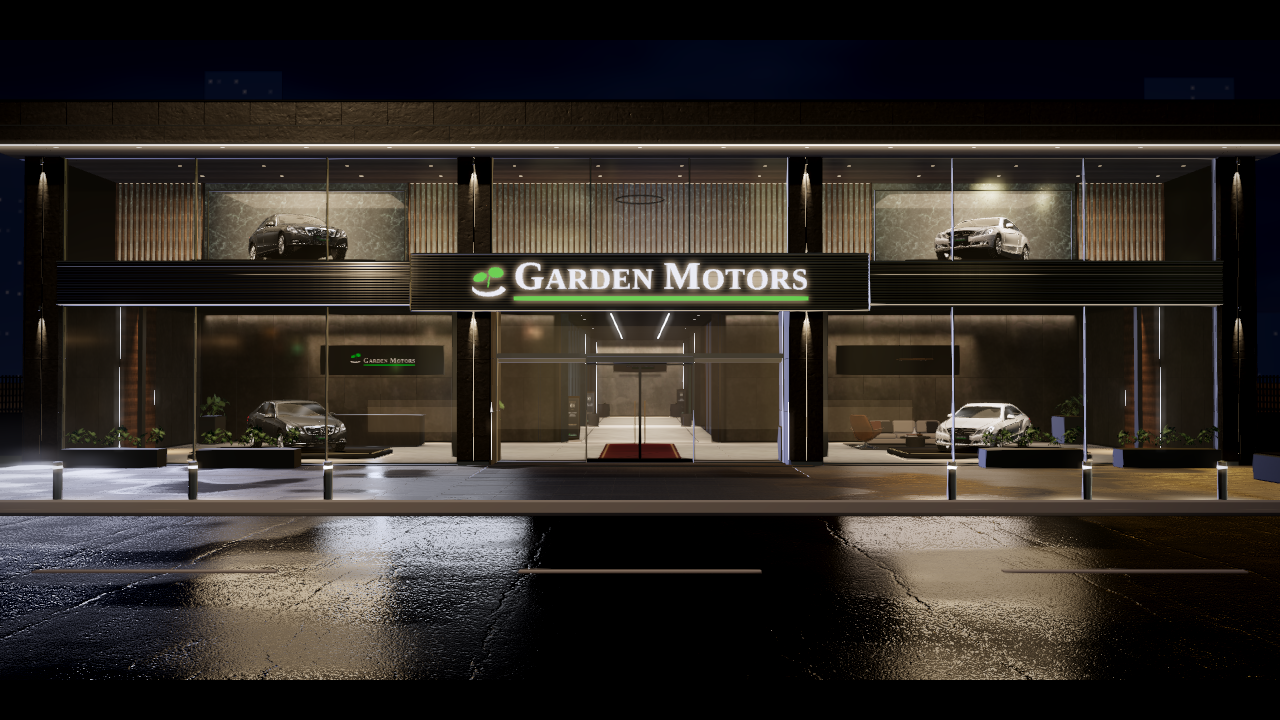
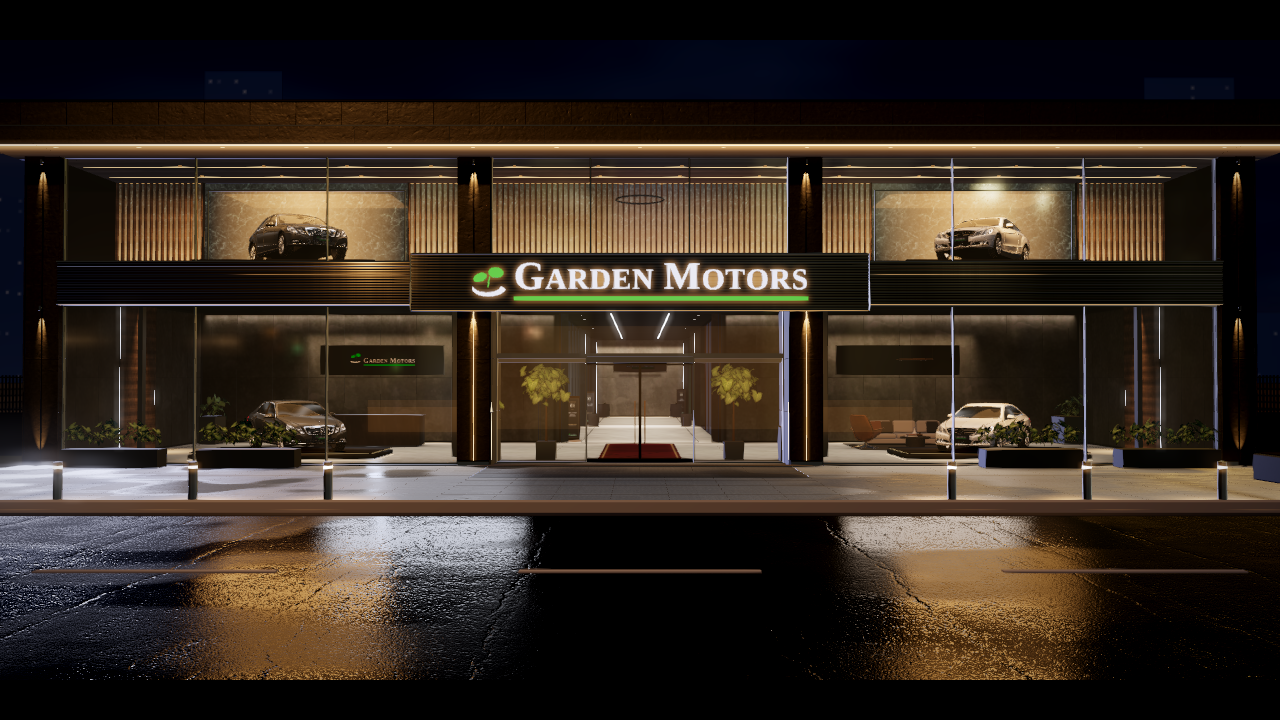
Garden Motors: vivid warm lighting to match the reference one-to-one
- Light: 3000K with no white-balance correction (vivid warm orange).
- Entrance columns: bright vertical LED on the ground floor only plus a
  narrow warm face glow; end columns get a base uplight.
- Upper floor: brighter marble niches and slat wash, two linear ceiling LEDs.
- Soffit LED and spill brighter; bollards brighter with larger light pools.
- Lobby trees on both sides of the entrance; denser planter planting.
- Pavement: lighter grey 120x60 cm wet tiles (worldUV tiles accept [x, z]).
- Wet road: long broken vertical streaks (33-tap exponential kernel,
  surface ripple, highlight boost).

Claude-Session: https://claude.ai/code/session_01M8TgaEoQWpuWF9YvHdo5A9

diff --git a/site/garden-motors/index.html b/site/garden-motors/index.html
@@ -1678,6 +1678,9 @@ function buildUpperGallery(f, g) {
     for (const yy of [y0 + .008, y1 - .008]) { const s = new THREE.Mesh(new THREE.BoxGeometry(w - .04, .01, .015), led); s.position.set(cx, yy, zB + .055); G.add(s); }
     const wp = new THREE.Mesh(new THREE.PlaneGeometry(w, H), wash); wp.position.set(cx, y0 + H / 2, zB + .045); G.add(wp);
   }
+  // referans: üst kat ahşap tavanında cepheye paralel iki ince çizgi LED
+  const cl = new THREE.MeshBasicMaterial({ name: 'GM_UpperCeilLED', color: L.clone().multiplyScalar(U.ceilLED) });
+  for (const z of [-1.05, -2.55]) { const s = new THREE.Mesh(new THREE.BoxGeometry(X1 - X0 - 1.2, .012, .03), cl); s.position.set(0, y1 - .01, z); s.name = 'GM_UpperCeilLED'; G.add(s); }
   const fin = new THREE.InstancedMesh(facUV(new RoundedBoxGeometry(U.finW, H - .03, U.finD, 2, .006), U.finW, H - .03, 1.6), wood, fins.length);   // ahşap damar gerçek ölçekte
   fins.forEach((p, i) => fin.setMatrixAt(i, m4.compose(p, q, new THREE.Vector3(1, 1, 1))));
   fin.instanceMatrix.needsUpdate = true; fin.name = 'GM_UpperFins'; fin.receiveShadow = true; G.add(fin);
@@ -1773,6 +1776,9 @@ function colMats() {
   const led = new THREE.MeshBasicMaterial({ name: 'GM_ColumnLED', color: M.lightColor.clone().multiplyScalar(C.led) });
   const core = new THREE.MeshStandardMaterial({ name: 'GM_LamelCore', color: C.lamel.core, roughness: .85, metalness: .1, envMapIntensity: .05 });
   const ring = new THREE.MeshBasicMaterial({ name: 'GM_UplightRing', color: M.lightColor.clone().multiplyScalar(1.5) });
+  const face = new THREE.MeshBasicMaterial({ name: 'GM_ColumnFaceGlow', map: gradTex('x', [[0, 0], [.38, .05], [.47, .5], [.5, 1], [.53, .5], [.62, .05], [1, 0]]),
+    alphaMap: gradTex('y', [[0, .35], [.08, 1], [.85, .8], [1, 0]]), color: M.lightColor.clone().multiplyScalar(C.faceGlow),
+    transparent: true, blending: THREE.AdditiveBlending, depthWrite: false });
   // girinti yan yüzeyi: LED'e yakın kenar parlak, öne doğru sönen ışık (ek ışık kaynağı yerine katkılı gradyan)
   const cv = document.createElement('canvas'); cv.width = 64; cv.height = 4; const g = cv.getContext('2d'), gr = g.createLinearGradient(0, 0, 64, 0);
   gr.addColorStop(0, 'rgba(255,255,255,0)'); gr.addColorStop(.55, 'rgba(255,255,255,.18)'); gr.addColorStop(1, 'rgba(255,255,255,1)');
@@ -1781,9 +1787,9 @@ function colMats() {
   const glow = new THREE.MeshBasicMaterial({ name: 'GM_GrooveGlow', map: gt, color: M.lightColor.clone().multiplyScalar(C.grooveGlow), transparent: true,
     blending: THREE.AdditiveBlending, depthWrite: false, side: THREE.DoubleSide, toneMapped: true });
   if (EXT_ENV) { body.envMap = EXT_ENV; }
-  return (COL.mats = { body, gap, led, core, ring, glow, metal: M.metal });
+  return (COL.mats = { body, gap, led, core, ring, glow, face, metal: M.metal });
 }
-function createColumn(width, height, depth, variant = TH.columns.variant) {
+function createColumn(width, height, depth, variant = TH.columns.variant, { strip = true, base = false } = {}) {
   const C = TH.columns, K = colMats(), g = new THREE.Group(); g.name = `GM_Column_${variant}`;
   const w = width, h = height, d = depth, tm = TH.palette.structure.textureMeters;
   const add = (geo, mat, x, y, z, { cast = true, recv = true, name } = {}) => { const m = new THREE.Mesh(geo, mat); m.position.set(x, y, z); m.castShadow = cast; m.receiveShadow = recv; if (name) m.name = name; g.add(m); return m; };
@@ -1812,12 +1818,18 @@ function createColumn(width, height, depth, variant = TH.columns.variant) {
       const geo = wallVar(new RoundedBoxGeometry(hw, ph, d, 3, C.radius));   // dünya koordinatlı doku + plaka başına ofset / döndürme / ton
       add(geo, wallMat(), sd * (gw / 2 + hw / 2), y0 + ph / 2 + k * (ph + C.joint), -d / 2, { name: 'GM_ColumnPlate' });
     }
-    add(new THREE.BoxGeometry(.012, bh, .006), K.led, 0, y0 + bh / 2, -gd + .004, { cast: false, recv: false, name: 'GM_ColumnLED' });
-    for (const sd of [-1, 1]) {
-      const pg = new THREE.PlaneGeometry(gd, bh);
-      if (sd > 0) { const uv = pg.attributes.uv; for (let k = 0; k < uv.count; k++) uv.setX(k, 1 - uv.getX(k)); }
-      const pl = add(pg, K.glow, sd * (gw / 2 - .0006), y0 + bh / 2, -gd / 2, { cast: false, recv: false, name: 'GM_GrooveGlow' });
-      pl.rotation.y = sd * Math.PI / 2;   // u: ön kenar → LED tarafı (iki yanda da LED'e doğru parlar)
+    // referans: parlak dikey LED yalnız zemin katta (bant altına kadar) ve yalnız giriş kolonlarında; üstü koyu girinti
+    if (strip) {
+      const lh = Math.min(bh, C.ledTop - y0);
+      add(new THREE.BoxGeometry(.012, lh, .006), K.led, 0, y0 + lh / 2, -gd + .004, { cast: false, recv: false, name: 'GM_ColumnLED' });
+      for (const sd of [-1, 1]) {
+        const pg = new THREE.PlaneGeometry(gd, lh);
+        if (sd > 0) { const uv = pg.attributes.uv; for (let k = 0; k < uv.count; k++) uv.setX(k, 1 - uv.getX(k)); }
+        const pl = add(pg, K.glow, sd * (gw / 2 - .0006), y0 + lh / 2, -gd / 2, { cast: false, recv: false, name: 'GM_GrooveGlow' });
+        pl.rotation.y = sd * Math.PI / 2;   // u: ön kenar → LED tarafı (iki yanda da LED'e doğru parlar)
+      }
+      // ön yüze yayılan sıcak ışıma: LED hattında parlak, kolon kenarlarına ve üst/alt uçlara doğru söner
+      add(new THREE.PlaneGeometry(w, lh), K.face, 0, y0 + lh / 2, .003, { cast: false, recv: false, name: 'GM_ColumnFaceGlow' });
     }
   }
   // referans: kolon yüzüne monte küçük silindir armatür + aşağı bakan dar ışın (gölgesiz). Armatürün hemen altında parlak, aşağı doğru söner.
@@ -1835,6 +1847,17 @@ function createColumn(width, height, depth, variant = TH.columns.variant) {
       g.add(sp, sp.target); COL.spots.push(sp);
     }
   }
+  // uç kolonlar (referans): zemine gömülü halka + yukarı bakan dar ışık; altta parlak, yukarı söner
+  if (base) {
+    const off = C.uplightOffset;
+    add(new THREE.TorusGeometry(.065, .012, 8, 32), K.metal, 0, .014, off, { cast: false, name: 'GM_UplightRing' }).rotation.x = -Math.PI / 2;
+    add(new THREE.CircleGeometry(.05, 32), K.ring, 0, .016, off, { cast: false, recv: false, name: 'GM_UplightLens' }).rotation.x = -Math.PI / 2;
+    if (!isMobile) {
+      const sp = new THREE.SpotLight(facadeMats().lightColor, C.baseUplight, h + 1.5, C.uplightAngle, C.uplightPenumbra, 2);
+      sp.name = 'GM_ColumnUplight'; sp.castShadow = false; sp.position.set(0, .05, off); sp.target.position.set(0, h * .6, off - h * .6 * Math.tan(C.uplightAngle));
+      sp.userData.base = true; g.add(sp, sp.target); COL.spots.push(sp);
+    }
+  }
   return g;
 }
 // kolonları (yeniden) kur: lil-gui'den varyant / girinti değişince çağrılır
@@ -1842,14 +1865,16 @@ function buildColumns(variant = TH.columns.variant) {
   if (COL.group) { COL.group.traverse((o) => { if (o.isMesh) o.geometry.dispose(); }); COL.group.removeFromParent(); }
   COL.spots = [];
   const g = COL.group = new THREE.Group(); g.name = 'Dış kolonlar'; scene.add(g);
-  for (const [x, w] of COL_SPECS) { const c = createColumn(w, FD.roofBottom, FAC_COL_F - FD.glass, variant); c.position.set(x, 0, FAC_COL_F); g.add(c); }
+  for (const [x, w] of COL_SPECS) {   // giriş kolonları: dikey LED; uç kolonlar: zeminden yukarı ışık (referans)
+    const end = Math.abs(x) > 10, c = createColumn(w, FD.roofBottom, FAC_COL_F - FD.glass, variant, { strip: !end, base: end });
+    c.position.set(x, 0, FAC_COL_F); g.add(c); }
   renderer.shadowMap.needsUpdate = true;
   return g;
 }
 function updateColumnLights() {
   const C = TH.columns, K = colMats(), L = facadeMats().lightColor;
-  K.led.color.copy(L).multiplyScalar(C.led); K.glow.color.copy(L).multiplyScalar(C.grooveGlow);
-  for (const sp of COL.spots) { sp.intensity = C.uplight; sp.color.copy(L); }
+  K.led.color.copy(L).multiplyScalar(C.led); K.glow.color.copy(L).multiplyScalar(C.grooveGlow); K.face.color.copy(L).multiplyScalar(C.faceGlow);
+  for (const sp of COL.spots) { sp.intensity = sp.userData.base ? C.baseUplight : C.uplight; sp.color.copy(L); }
 }
 // siyah yatay alüminyum lamel kutu: koyu arka yüz + öne eğik lameller (üst yüzleri göğü / saçak ışığını yakalar, referanstaki ince
 // parlak çizgiler) + metal üst başlık ve alt kapak; alt kapağın ön kenarında aşağı bakan ince LED. z0: arka, zF: lamellerin önü.
@@ -1970,12 +1995,13 @@ function applyFacadeTheme(f) {
   if (DECOR.potted_plant_02) {
     f.traverse((o) => {
       if (!/^MTG_FacPlanterSoil/.test(o.name)) return;
-      const bb = new THREE.Box3().setFromObject(o), L = bb.max.x - bb.min.x, n = Math.max(3, Math.round(L / .4));   // referans: gür, sık dikim
+      const bb = new THREE.Box3().setFromObject(o), L = bb.max.x - bb.min.x, n = Math.max(4, Math.round(L / .3));   // referans: gür, sık dikim
       for (let i = 0; i < n; i++) {
         const p = DECOR.potted_plant_02.clone(true); p.traverse((m) => { if (m.isMesh && /_pot(\.|_|\d|$)/i.test(`${m.name}|${m.material?.name || ''}`)) m.visible = false; });
-        const pb = new THREE.Box3().setFromObject(p), k = (.58 + .14 * Math.sin(i * 2.7)) / Math.max(.01, pb.max.y - pb.min.y);
+        const pb = new THREE.Box3().setFromObject(p), k = (.72 + .18 * Math.sin(i * 2.7)) / Math.max(.01, pb.max.y - pb.min.y);
         p.scale.setScalar(k); p.rotation.y = i * 2.1;
-        p.position.set(bb.min.x + L * (i + .5) / n, bb.max.y - (pb.min.y * k) - .06, (bb.min.z + bb.max.z) / 2); p.name = 'GM_PlanterPlant';
+        const dz = ((i % 3) - 1) * (bb.max.z - bb.min.z) * .22;   // iki-üç sıra: saksı dolu görünür
+        p.position.set(bb.min.x + L * (i + .5) / n, bb.max.y - (pb.min.y * k) - .06, (bb.min.z + bb.max.z) / 2 + dz); p.name = 'GM_PlanterPlant';
         f.add(p); f.worldToLocal(p.position);
       }
     });
@@ -1994,7 +2020,28 @@ function finalizeFacadeTheme() {
   recolorFacadeLights();
   restylePlanters();
   bollardLights();
+  lobbyTrees();
   buildThemeSky();
+}
+// giriş lobisi (referans): kapının iki yanında, cam arkasında koyu kare saksıda yapraklı küçük ağaç.
+// Taç: potted_plant_02 yapraklarının yedi kümesi (gerçek yaprak dokusu), ince gövde.
+function lobbyTrees() {
+  if (!DECOR.potted_plant_02) return;
+  const M = facadeMats(), potM = M.variant('structure', { matte: true }), trunkM = std('#3b3027', .85, 0, .1), soil = std('#211f1a', .96, 0, 0);
+  const leafCache = new Map(), darkLeaf = (m) => { if (!leafCache.has(m)) { const c = m.clone(); c.color.multiply(new THREE.Color(.3, .5, .3)); leafCache.set(m, c); } return leafCache.get(m); };   // sıcak ışıkta sararmasın: koyu yeşil
+  for (const sd of [-1, 1]) {
+    const g = new THREE.Group(); g.name = 'GM_LobbyTree'; g.position.set(sd * 2.75, 0, -1.75); scene.add(g);
+    const pot = new THREE.Mesh(new RoundedBoxGeometry(.56, .55, .56, 3, .02), potM); pot.position.y = .275; pot.castShadow = pot.receiveShadow = true; g.add(pot);
+    const top = new THREE.Mesh(new THREE.PlaneGeometry(.5, .5), soil); top.rotation.x = -Math.PI / 2; top.position.y = .53; g.add(top);
+    const tr = new THREE.Mesh(new THREE.CylinderGeometry(.025, .04, 1.25, 10), trunkM); tr.position.y = .53 + .62; tr.castShadow = true; g.add(tr);
+    for (let k = 0; k < 12; k++) {
+      const p = DECOR.potted_plant_02.clone(true);
+      p.traverse((m) => { if (!m.isMesh) return; if (/_pot(\.|_|\d|$)/i.test(`${m.name}|${m.material?.name || ''}`)) m.visible = false; else m.material = darkLeaf(m.material); });
+      const a = k * 2.399963, r = k ? (k < 6 ? .22 : .36) : 0, hgt = 1.45 + (k % 3) * .16 + (k ? 0 : .3);
+      p.scale.setScalar(1.25 + (k % 2) * .25); p.rotation.set((k % 2 ? .4 : -.3), a * 1.7, (k % 3 - 1) * .35);
+      p.position.set(Math.cos(a) * r, hgt, Math.sin(a) * r); g.add(p);
+    }
+  }
 }
 // babalar (referans): tepede parlak sıcak ışık halkası + zeminde yumuşak ışık havuzu (katkılı, ek ışık kaynağı yok).
 // Islak zeminde halka ve havuz Reflector görüntüsünden dikey süzülme olarak da yansır.

diff --git a/site/garden-motors/src/theme/facadeTheme.js b/site/garden-motors/src/theme/facadeTheme.js
@@ -15,8 +15,8 @@ export const FACADE_THEME = {
     stone: { texture: 'stone', usage: 'yalnız yaya zemini (kaldırım, giriş eşiği)' },
     brand: { green: '#3ccf3c', white: '#f2efe8' },
   },
-  lightTemp: 3500,   // K — bütün spot, LED ve vitrin ışıkları (cephe ışıklarının hepsi kelvinToColor'dan)
-  whiteBalance: 4700,   // K — kamera beyaz dengesi: 3500 K ışık #ffe1b6 görünür, gri taş sıcak ışık altında gri kalır (6500 = dengesiz, #ffcc8c)
+  lightTemp: 3000,   // K — bütün spot, LED ve vitrin ışıkları (cephe ışıklarının hepsi kelvinToColor'dan)
+  whiteBalance: 6500,   // K — kamera beyaz dengesi. Referans: canlı sıcak turuncu ışık → düzeltme yok (3000 K ≈ #ffbd73). 4700 = nötr, taş gri kalır
   sign: {
     width: 12.4, height: 1.56, boxDepth: .22,   // tabela kutusu: bant önüne 22 cm çıkar, bantdan 18 cm yüksek, önü aynı lamel
     capRatio: .45,          // büyük harf yüksekliği / panel yüksekliği
@@ -51,8 +51,11 @@ export const FACADE_THEME = {
     radius: .008,          // plaka köşe pahı
     roughness: .35, clearcoat: .4, clearcoatRoughness: .3,   // bantlardan bir tık rafine
     grooveW: .04, grooveD: .03,      // orta girinti
-    led: 1.1,              // girinti dibindeki 3000 K şerit (tabeladan sönük kalır)
-    grooveGlow: .35,       // girinti yan yüzeylerine düşen LED ışığı
+    led: 3.6,              // girinti dibindeki şerit (referans: zemin kat kolonlarında parlak dikey LED)
+    grooveGlow: 1.2,       // girinti yan yüzeylerine düşen LED ışığı
+    ledTop: 4.30,          // LED yalnız zemin katta (bant altına kadar), giriş kolonlarında
+    faceGlow: .22,         // LED'in kolon ön yüzüne yaydığı sıcak ışıma (ortada parlak, kenarlara söner)
+    baseUplight: 14,       // uç kolonlar: zeminden yukarı ışık (referanstaki gibi altta parlak)
     plinthH: .12, plinthInset: .02, plinthGap: .03,   // metal kaide + koyu gölge boşluğu
     topGap: .03,           // kolon üstü ile saçak arası gölge boşluğu
     uplight: 36, uplightAngle: .26, uplightPenumbra: .8, uplightOffset: .22,   // kolon ışığı şiddeti / açısı (gölgesiz)
@@ -70,8 +73,9 @@ export const FACADE_THEME = {
     stone: 'dark_stone', stoneMeters: 2.4, stoneTint: .62, stoneRough: .4,
     finW: .05, finD: .12, finPitch: .17,
     niches: [[-10.4, 6.4], [10.4, 6.4]],   // [merkez x, genişlik] — araçların arkası
-    lightBox: .42,         // niş arka panelinin parlaklığı (araç silüeti öne çıkar, tabeladan sönük)
-    wash: .55,             // lamel bölgesinde taş duvara düşen sıcak yıkama
+    lightBox: 1.0,         // niş arka panelinin parlaklığı (referans: mermer arkadan parlak aydınlatmalı)
+    wash: 1.3,             // lamel bölgesinde taş duvara düşen sıcak yıkama (ahşap lameller ışıl ışıl)
+    ceilLED: 3.0,          // üst kat tavanında boydan boya iki çizgi LED
   },
   // vitrin araçları: tavan spotu + üst ışık + kaide altında yüzen ışık
   display: { spot: 48, spotAngle: .5, spotPenumbra: .65, topLight: 4.2, groundTopLight: 3.2, trim: .75, floorGlow: .45 },
@@ -91,11 +95,12 @@ export const FACADE_THEME = {
     uplight: { intensity: 2.2, angle: .3, penumbra: .8, offset: .22 },
   },
   // yaya zemini (giriş önü kaldırım): duvar taşı, dünya ızgarasına oturan 60 × 60 cm karolar, ince derz. Pişmiş ışık haritası korunur.
-  paving: { texture: 'wall_stone', worldSize: 0.9, tint: .035, tile: .6, joint: .003, jointDark: .55, albedo: '#4a4845', albedoDark: '#33312f', normalScale: 1.0, gain: 2.3 },
-  soffit: { led: 4.0, glow: .55, glowDepth: 1.4 },   // saçak ön kenarı: parlak sürekli LED + ahşaba yayılan ışık
+  // referans: açık-orta gri, 120 × 60 cm büyük ıslak karolar (60 cm sokağa doğru)
+  paving: { texture: 'wall_stone', worldSize: 0.9, tint: .035, tile: [1.2, .6], joint: .003, jointDark: .55, albedo: '#7a766f', albedoDark: '#4a4743', normalScale: .8, gain: 2.3 },
+  soffit: { led: 5.0, glow: 1.0, glowDepth: 1.6 },   // saçak ön kenarı: parlak sürekli LED + ahşaba yayılan ışık
   // ıslak zemin (referans: yağmur sonrası gece): yol + kaldırım yansıması, birikinti, koyulaşma. Yalnız HD modda ve dışarıdayken.
-  wet: { reflect: 1.0, wetness: 1.0, streak: 2.2, res: .5, road: { darken: .45, puddle: .5, minWet: .82 }, paving: { darken: .35, puddle: .45, minWet: .6 } },
-  bollard: { led: 6, pool: .75, poolR: 1.3 },   // baba tepesi ışık halkası + zemindeki ışık havuzu
+  wet: { reflect: 1.5, wetness: 1.0, streak: 1.0, res: .5, road: { darken: .45, puddle: .5, minWet: .82 }, paving: { darken: .35, puddle: .45, minWet: .6 } },
+  bollard: { led: 10, pool: 1.1, poolR: 1.4 },   // baba tepesi ışık halkası + zemindeki ışık havuzu
   bloom: { threshold: .9, strength: .16, radius: .12 },
   sky: { top: '#0b1020', mid: '#10172a', horizon: '#2a2530', warm: .22, clouds: .6, cloud: '#1f2638' },   // clouds: referanstaki bulutlu gece
   city: { color: '#1c2335', windows: .14, distance: 170, height: 72 },

diff --git a/site/garden-motors/src/materials/worldUV.js b/site/garden-motors/src/materials/worldUV.js
@@ -10,7 +10,7 @@
 //             vec4(ofsetU, ofsetV, döndür(0|1), rastgele −1..1). InstancedMesh'te InstancedBufferAttribute olabilir.
 // grime:      { map (Opacity), opacity, height (m), width (m), edges: [y...] } — kenarların hemen altında dikey akıntı
 // base:       { height (m), dark (0..1) } — zemine değen alt kısımda koyulaşma
-// tiles:      { size (m), joint (m, derz genişliği), dark (0..1) } — yatay yüzeylerde dünya ızgarasına oturan kare karolar:
+// tiles:      { size (m ya da [x, z]), joint (m, derz genişliği), dark (0..1) } — yatay yüzeylerde dünya ızgarasına oturan kare karolar:
 //             karo başına ofset / döndürme / ton shader'da karo numarasından üretilir, derz ince ve kenar yumuşatmalı
 // Malzemenin önceki onBeforeCompile'ı (ör. pişmiş ışık kancası) korunur ve önce çalışır.
 // Ayarlar sonradan material.userData.worldUV.uniforms üzerinden değiştirilebilir.
@@ -52,7 +52,8 @@ export function applyWorldUV(material, o) {
     tpGrime: { value: g.map || null }, tpGrimeOn: { value: g.map ? 1 : 0 }, tpGrimeOpacity: { value: g.opacity ?? .2 },
     tpGrimeH: { value: g.height ?? .55 }, tpGrimeW: { value: g.width ?? 2 }, tpEdges: { value: edges },
     tpBaseH: { value: b.height ?? .25 }, tpBaseDark: { value: b.dark ?? .35 },
-    tpTileSize: { value: o.tiles?.size ?? .6 }, tpTileJoint: { value: o.tiles?.joint ?? .003 }, tpTileDark: { value: o.tiles?.dark ?? .5 },
+    tpTileSize: { value: new THREE.Vector2(...[].concat(o.tiles?.size ?? .6, o.tiles?.size ?? .6).slice(0, 2)) },   // [x, z] ya da tek sayı (kare)
+    tpTileJoint: { value: o.tiles?.joint ?? .003 }, tpTileDark: { value: o.tiles?.dark ?? .5 },
   };
   material.userData.worldUV = { uniforms: U };
   const lite = !!o.lite, tiles = !!o.tiles;
@@ -77,7 +78,8 @@ varying vec3 vTpPos; varying vec3 vTpNrm; varying vec4 vTpVar;
 uniform sampler2D tpColor, tpNormal, tpRough, tpAO, tpGrime;
 uniform vec3 tpColorMul;
 uniform float tpHasAO, tpScale, tpAspect, tpNormalScale, tpAnti, tpRoughMul, tpVar, tpTint, tpRoughVar;
-uniform float tpGrimeOn, tpGrimeOpacity, tpGrimeH, tpGrimeW, tpBaseH, tpBaseDark, tpTileSize, tpTileJoint, tpTileDark;
+uniform float tpGrimeOn, tpGrimeOpacity, tpGrimeH, tpGrimeW, tpBaseH, tpBaseDark, tpTileJoint, tpTileDark;
+uniform vec2 tpTileSize;
 vec4 tpV;   // etkin plaka/karo değişkenleri (plateVar ya da karo numarasından)
 uniform float tpEdges[${MAX_EDGES}];
 float tpHash(vec3 p) { p = fract(p * .3183099 + .1); p *= 17.0; return fract(p.x * p.y * p.z * (p.x + p.y + p.z)); }

diff --git a/site/garden-motors/src/materials/wetGround.js b/site/garden-motors/src/materials/wetGround.js
@@ -50,11 +50,17 @@ roughnessFactor = mix(roughnessFactor, .07, wetM * .9);          // su filmi: ı
 #include <lights_physical_fragment>`)
       .replace('#include <opaque_fragment>', `if (wetOn > .5) {
   vec4 wc = wetTM * vec4(vWetW, 1.0); vec2 wuv = wc.xy / wc.w;
-  float rip = wetN(vWetW.xz * 7.0) - .5; wuv.x += rip * .004;
-  float st = wetStreak * mix(2.4, 1.0, wetM) * .006;           // nemli (birikinti olmayan) yerde daha bulanık
+  // referans: her ışık için uzun, kırık dikey süzülme. Yatayda ince dalga (yüzey pürüzü), dikeyde uzun üstel çekirdek.
+  float rip = wetN(vWetW.xz * vec2(2.2, 9.0)) - .5, rip2 = wetN(vWetW.xz * 23.0) - .5;
+  wuv.x += (rip * .010 + rip2 * .003) * wetM;
+  float st = wetStreak * mix(1.6, 1.0, wetM) * .0055;
   vec3 rc = vec3(0.0); float ws = 0.0;
-  for (int i = -5; i <= 5; i++) { float o = float(i), w = exp(-o * o / 12.0); rc += texture2D(wetMap, wuv + vec2(0.0, o * st)).rgb * w; ws += w; }
+  for (int i = -16; i <= 16; i++) { float o = float(i), w = exp(-abs(o) / 6.0) * (1.0 + .35 * rip2);
+    rc += texture2D(wetMap, wuv + vec2(0.0, o * st)).rgb * w; ws += w; }
   rc /= ws;
+  rc *= 1.0 + .6 * rip;                                           // süzülme boyunca parlaklık kırılır (dalgalı asfalt)
+  float lum = dot(rc, vec3(.2126, .7152, .0722));
+  rc *= 1.0 + 1.8 * smoothstep(.25, 2.5, lum);                     // parlak kaynaklar (baba, kolon LED'i) uzun ve parlak süzülür
   vec3 V = normalize(cameraPosition - vWetW); float fr = .02 + .98 * pow(1.0 - clamp(V.y, 0.0, 1.0), 5.0);
   outgoingLight += rc * fr * wetM * wetReflect;
 }

diff --git a/site/garden-motors/README.md b/site/garden-motors/README.md
@@ -107,3 +107,19 @@ y ≈ 2.85 m'de kesip altını aşırı aydınlatıyor, üstünü karanlık bır
 Kalan farklar (sonraki tur): referans genel olarak daha sıcak (iç mekân turuncu, ahşap parlıyor); yoldaki yansımalar referansta
 her ışık için ayrı ince dikey çizgi, bizde daha geniş; iç mekânda giriş yanlarında saksı ağaçlar.
 Karşılaştırma: `screenshots/referans/karsilastirma.jpg`.
+
+### 2. tur: referansın canlı ışığı birebir
+- **Işık rengi:** 3000 K, beyaz dengesi düzeltmesi yok (6500) → referanstaki canlı sıcak turuncu (`#ffbd73`). Koyu taş kolonlar
+  turuncu ışık huzmesi altında referanstaki gibi görünür.
+- **Kolonlar:** giriş kolonlarında yalnız zemin katta parlak dikey LED (bant altına kadar) + ön yüzde dar sıcak ışıma;
+  uç kolonlarda zeminden yukarı dar ışık (altta parlak). Üst armatürler aşağı vurmaya devam eder.
+- **Üst kat:** niş arkası mermer daha parlak (lightBox 1.0), ahşap lamellere yıkama 1.3, ahşap tavanda cepheye paralel iki çizgi LED.
+- **Saçak:** LED 5, ahşaba yayılan ışık 1.0 (1.6 m).
+- **Giriş lobisi:** kapının iki yanında koyu kare saksıda yapraklı ağaç (`lobbyTrees()`).
+- **Saksılar:** 30 cm aralıkla iki-üç sıra gür bitki.
+- **Kaldırım:** referanstaki gibi açık-orta gri (`#7a766f`) 120 × 60 cm karo; giriş şeridi `#4a4743`.
+- **Islak yol:** her ışık için uzun, kırık dikey süzülme (33 örnekli üstel çekirdek, yüzey dalgası), parlak kaynaklar güçlendirilir;
+  yansıma şiddeti 1.5.
+- **Babalar:** LED ×10, zeminde 1.4 m ışık havuzu.
+
+Karşılaştırma (referans / 1. tur / 2. tur): `screenshots/referans/karsilastirma2.jpg`.
